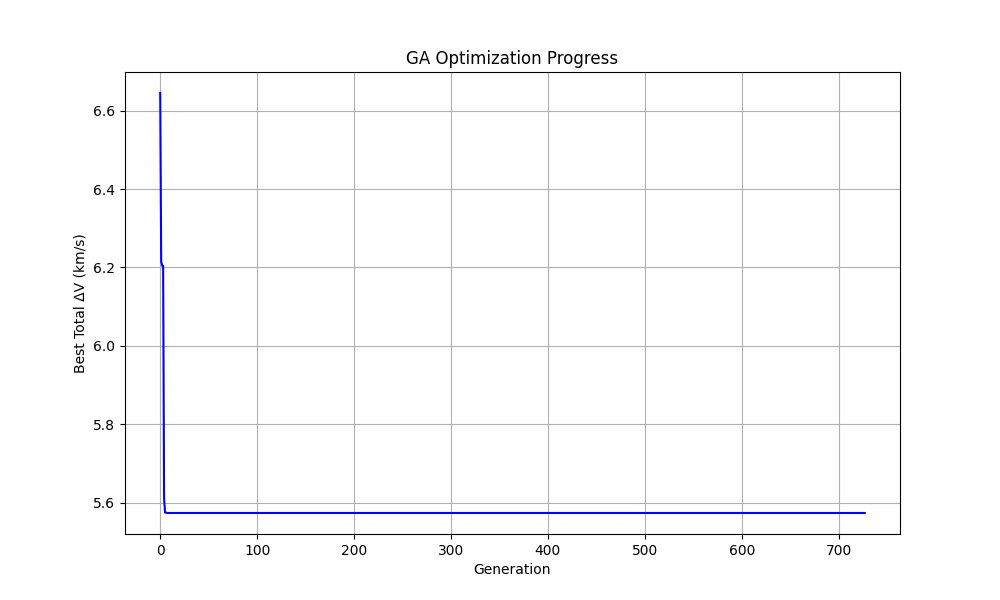
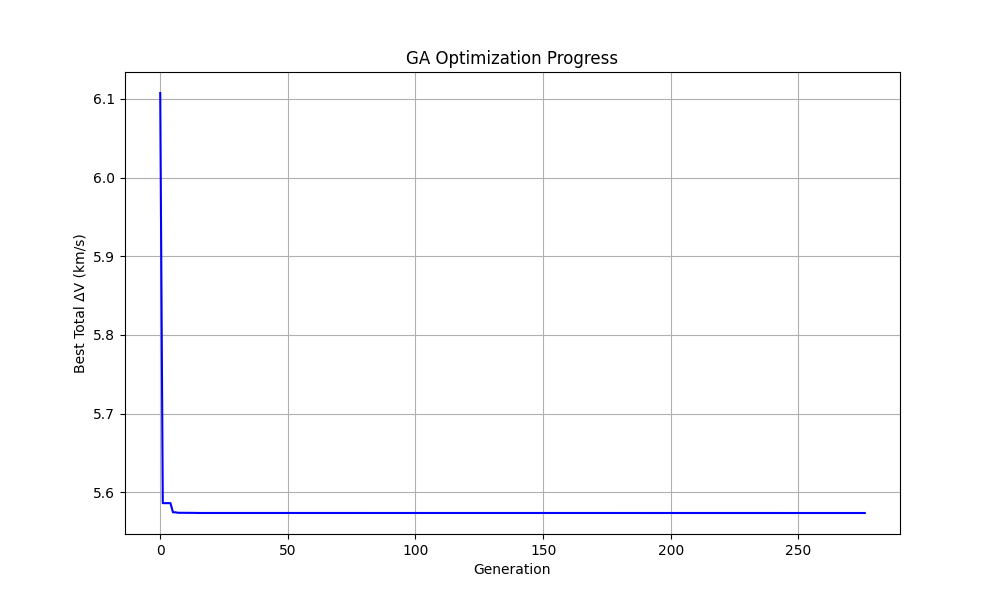
Tweaks to GA config

diff --git a/MGA/configGA.py b/MGA/configGA.py
@@ -44,10 +44,15 @@ def custom_mutation(offspring, ga_instance):
                 
                 # Different mutation strategy based on gene index
                 if gene_idx == 0:  # Departure date
-                    # For dates, we might want smaller mutations (e.g., +/- 30 days)
-                    mutation_range = min(float(range_width * 0.05), 30.0)  # 5% of range or 30 days, whichever is smaller
-                    mutation = np.random.uniform(-mutation_range, mutation_range)
-                    offspring[gene_idx] += mutation
+                    # Allow larger jumps in the date range with 10% probability
+                    if np.random.random() < 0.1:
+                        # Major jump to different region of the search space
+                        offspring[gene_idx] = np.random.uniform(lb, ub)
+                    else:
+                        # For dates, we might want smaller mutations (e.g., +/- 30 days)
+                        mutation_range = min(float(range_width * 0.05), 30.0)  # 5% of range or 30 days, whichever is smaller
+                        mutation = np.random.uniform(-mutation_range, mutation_range)
+                        offspring[gene_idx] += mutation
                     
                 elif gene_idx == 1:  # TOF
                     # For TOF, allow larger variations (e.g., +/- 10% of current value)
@@ -83,10 +88,15 @@ def custom_mutation(offspring, ga_instance):
                     
                     # Different mutation strategy based on gene index
                     if gene_idx == 0:  # Departure date
-                        # For dates, we might want smaller mutations (e.g., +/- 30 days)
-                        mutation_range = min(float(range_width * 0.05), 30.0)
-                        mutation = np.random.uniform(-mutation_range, mutation_range)
-                        solution[gene_idx] += mutation
+                        # Allow larger jumps in the date range with 10% probability
+                        if np.random.random() < 0.1:
+                            # Major jump to different region of the search space
+                            solution[gene_idx] = np.random.uniform(lb, ub)
+                        else:
+                            # For dates, we might want smaller mutations (e.g., +/- 30 days)
+                            mutation_range = min(float(range_width * 0.05), 30.0)
+                            mutation = np.random.uniform(-mutation_range, mutation_range)
+                            solution[gene_idx] += mutation
                         
                     elif gene_idx == 1:  # TOF
                         # For TOF, allow larger variations (e.g., +/- 10% of current value)
@@ -109,7 +119,7 @@ def custom_mutation(offspring, ga_instance):
 
 def generate_initial_population(pop_size, lb, ub, earth, mars, muS):
     """
-    Generate a smart initial population for the Earth-Mars trajectory problem.
+    Generate a diverse initial population for the Earth-Mars trajectory problem.
     
     Parameters:
         pop_size - Size of the population
@@ -125,13 +135,44 @@ def generate_initial_population(pop_size, lb, ub, earth, mars, muS):
     # Initialize population array
     initial_population = np.zeros((pop_size, len(lb)))
     
-    # Generate dates throughout the search space
-    # Earth-Mars synodic period is ~780 days, so we want to spread 
-    # starting points across potential launch windows
+    # Get the total date range
+    date_range = ub[0] - lb[0]
+    
+    # Divide the date range into segments to ensure coverage
+    num_segments = 20
+    segment_size = date_range / num_segments
+    
+    # Distribute population across segments to ensure full coverage
+    for i in range(pop_size):
+        # Choose a segment for this individual (ensures even distribution)
+        segment = i % num_segments
+        
+        # Generate a date within this segment
+        segment_start = lb[0] + segment * segment_size
+        segment_end = segment_start + segment_size
+        
+        # Set departure date within the segment
+        initial_population[i, 0] = np.random.uniform(segment_start, segment_end)
+        
+        # Set time of flight with different strategies
+        if i % 3 == 0:
+            # Short transfers (near minimum)
+            initial_population[i, 1] = np.random.uniform(lb[1], lb[1] + 100)
+        elif i % 3 == 1:
+            # Medium transfers (Hohmann-like)
+            initial_population[i, 1] = np.random.uniform(200, 350)
+        else:
+            # Long transfers
+            initial_population[i, 1] = np.random.uniform(350, ub[1])
+    
+    # Also include some focused solutions around known launch windows (20% of population)
+    n_window_candidates = int(pop_size * 0.2)
     
     # Historical good Earth-Mars transfer windows (around opposition dates)
-    # Convert to Julian Dates for the algorithm
     historical_windows = [
+        compute_julian_date(2014, 1, 1),
+        compute_julian_date(2016, 3, 1),
+        compute_julian_date(2018, 5, 1),
         compute_julian_date(2020, 7, 1),   # 2020 window
         compute_julian_date(2022, 9, 1),   # 2022 window
         compute_julian_date(2024, 11, 1),  # 2024 window
@@ -139,30 +180,16 @@ def generate_initial_population(pop_size, lb, ub, earth, mars, muS):
         compute_julian_date(2029, 3, 1),   # 2029 window
     ]
     
-    # Create some candidates around these windows
-    n_window_candidates = int(pop_size * 0.3)  # 30% of population from known windows
-    window_indices = np.random.choice(len(historical_windows), n_window_candidates)
-    
+    # Replace some solutions with ones near historical windows
     for i in range(n_window_candidates):
-        window_date = historical_windows[window_indices[i]]
+        idx = pop_size - n_window_candidates + i  # Start replacing from the end
+        window = np.random.choice(historical_windows)
+        
         # Add some randomness around the window date (+/- 60 days)
-        initial_population[i, 0] = window_date + np.random.uniform(-60, 60)
+        initial_population[idx, 0] = window + np.random.uniform(-60, 60)
         
         # TOF around typical Hohmann transfer time (~260 days) with variations
-        initial_population[i, 1] = 260 + np.random.uniform(-60, 140)
-    
-    # Distribute the rest randomly across the search space
-    for i in range(n_window_candidates, pop_size):
-        initial_population[i, 0] = np.random.uniform(lb[0], ub[0])
-        initial_population[i, 1] = np.random.uniform(lb[1], ub[1])
-        
-    # Ensure all values are within bounds
-    for i in range(pop_size):
-        for j in range(len(lb)):
-            if initial_population[i, j] < lb[j]:
-                initial_population[i, j] = lb[j]
-            elif initial_population[i, j] > ub[j]:
-                initial_population[i, j] = ub[j]
+        initial_population[idx, 1] = 260 + np.random.uniform(-60, 140)
     
     return initial_population
 
@@ -218,20 +245,19 @@ def runGA(lb, ub, muS, muM, rM, earth, mars, x0=None):
     #***********************************************************************************************************************************************************
     # Fitness and selection options
     #***********************************************************************************************************************************************************
-    eliteCount = 10  # Increased to keep more promising solutions
+    eliteCount = 5  # Reduced to prevent premature convergence
     matingPoolSize = int(0.5 * pop_size)  # Using half of population for mating
     
-    # Selection method options: tournament is better than roulette for this problem
-    parentSelectionType = "tournament"  # More pressure for best solutions
-    tournamentSize = 5  # Tournament size
+    # Selection method options
+    parentSelectionType = "rws"  # Rank selection for reduced selection pressure
     
-    # Use uniform crossover to better mix the genes
-    crossoverType = "uniform"
+    # Use two-point crossover to better preserve date ranges
+    crossoverType = "two_points"
     crossoverProbability = 0.8
     
-    # Use our custom mutation
+    # Use our custom mutation with improved exploration
     mutationType = custom_mutation
-    mutationPercentage = 0.15  # Increased mutation rate for better exploration
+    mutationPercentage = 0.2  # Increased mutation rate for better exploration
 
     #***********************************************************************************************************************************************************
     # Log GA results
@@ -256,6 +282,29 @@ def runGA(lb, ub, muS, muM, rM, earth, mars, x0=None):
     logger.addHandler(console_handler)
 
     #***********************************************************************************************************************************************************
+    # Custom callback to monitor diversity
+    #***********************************************************************************************************************************************************
+    def on_generation(ga_instance):
+        if ga_instance.generations_completed % 10 == 0:
+            # Calculate diversity statistics for departure dates
+            departure_dates = ga_instance.population[:, 0]
+            min_date = np.min(departure_dates)
+            max_date = np.max(departure_dates)
+            std_date = np.std(departure_dates)
+            
+            # Log diversity information
+            print(f"Generation {ga_instance.generations_completed}: Date range = [{min_date:.1f}, {max_date:.1f}], Std = {std_date:.1f}")
+            
+            # If diversity is getting too low, introduce some random solutions
+            if std_date < (ub[0] - lb[0]) / 50:  # If std dev is less than 2% of the range
+                print("Low diversity detected - introducing new random solutions")
+                worst_idx = np.argsort(ga_instance.last_generation_fitness)[:pop_size//10]  # Replace 10% worst solutions
+                for idx in worst_idx:
+                    ga_instance.population[idx, 0] = np.random.uniform(lb[0], ub[0])
+                    ga_instance.population[idx, 1] = np.random.uniform(lb[1], ub[1])
+        return False
+    
+    #***********************************************************************************************************************************************************
     # Run the GA
     #***********************************************************************************************************************************************************
     
@@ -274,7 +323,6 @@ def runGA(lb, ub, muS, muM, rM, earth, mars, x0=None):
                            gene_space=gene_space,  # Using gene_space instead of init_range
                            initial_population=initial_population,
                            parent_selection_type=parentSelectionType,
-                           K_tournament=tournamentSize,  # For tournament selection
                            crossover_type=crossoverType,
                            crossover_probability=crossoverProbability,
                            mutation_type=mutationType,
@@ -282,7 +330,7 @@ def runGA(lb, ub, muS, muM, rM, earth, mars, x0=None):
                            keep_elitism=eliteCount,  
                            stop_criteria=stallGen,
                            save_best_solutions=True,  # Save best solutions for analysis
-                           # Removed save_solutions to avoid memory issues
+                           on_generation=on_generation,  # Add diversity monitoring
                            parallel_processing=None,  # Disable parallel processing to avoid issues
                            logger=logger)  
     

diff --git a/MGA/Objective.py b/MGA/Objective.py
@@ -82,8 +82,7 @@ def costFunction(gaInstance, x, x_idx, muS, muM, rM, earth, mars):
             valid_fitness = [f for f in population_fitness if f > 0]
             if valid_fitness:
                 best_dv = 1.0/max(valid_fitness) - 1e-8
-                avg_dv = 1.0/np.mean(valid_fitness) - 1e-8
-                print(f"Generation {current_gen}: Best ΔV = {best_dv:.2f} km/s, Avg ΔV = {avg_dv:.2f} km/s")
+                print(f"Generation {current_gen}: Best ΔV = {best_dv:.2f} km/s")
     
     # Store current generation
     if not hasattr(gaInstance, 'last_recorded_gen'):
